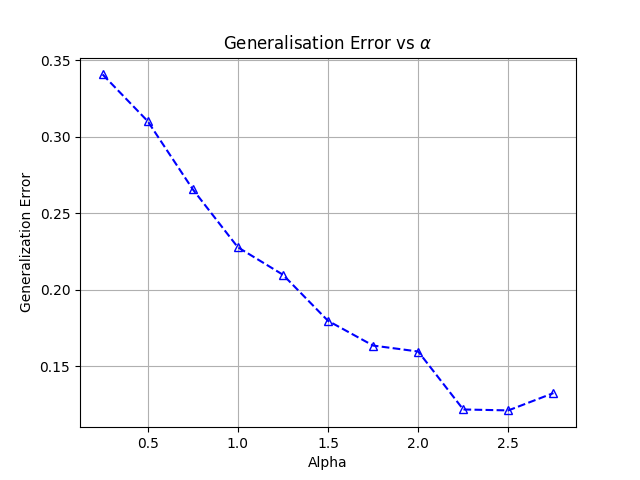
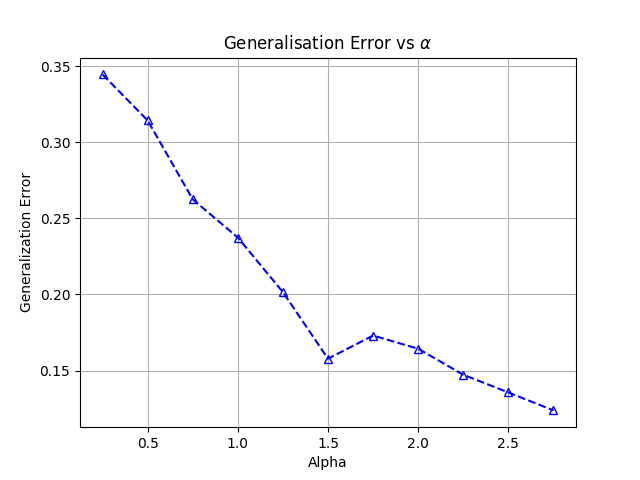
Updated learning rate for adatron

diff --git a/a2_minover/perceptron_minover.py b/a2_minover/perceptron_minover.py
@@ -60,10 +60,12 @@ class Perceptron:
             w_old = w
             for i in range(X.shape[0]):
                 E = np.dot(w, X[i]) * y[i]
-                emb_str[i] = max(0, emb_str[i] + 0.01 *(1 - E))
-                w = sum([emb_str[j] * X[j] for j in range(len(emb_str))])/(X.shape[1])
+                emb_str[i] = max(0, emb_str[i] + 0.05 * (1.0 - E))
+                # print(emb_str[i])
+                w = sum([emb_str[j] * X[j] for j in range(len(emb_str))])
+            # print(w)
             w_angle = acos(min(np.dot(w,w_old)/(np.linalg.norm(w)*np.linalg.norm(w_old)), 1))
-            if np.abs(w_angle) < self.threshold:
+            if np.abs(w_angle) < pi/1000:
                 stop_fit = True
             converge_step += 1
         return w, converge_step
